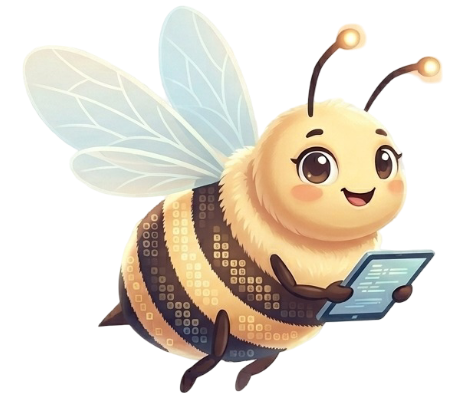
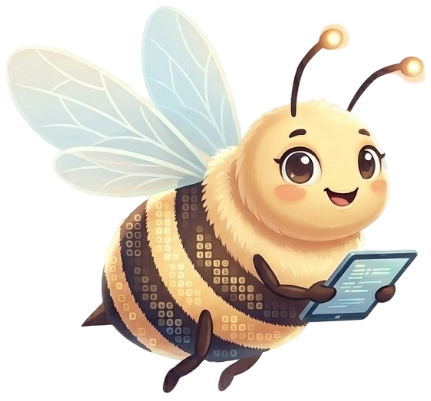
Iconos

diff --git a/frontend/src/js/components/layouts/TopNav/TopNav.js b/frontend/src/js/components/layouts/TopNav/TopNav.js
@@ -60,7 +60,12 @@ export default function TopNav() {
       <div className="topnav-container">
         <div className="topnav-brand">
           <Link to="/" className="brand-link">
-            <img src="/images/logoSF.png" alt="Logo de IVI" className="brand-logo" />
+            <img 
+              src="/images/logoSF.png" 
+              alt="Logo de IVI" 
+              className="brand-logo" 
+              style={{ width: fontSize * 2.5 + 'px', height: fontSize * 2.5 + 'px', minWidth: fontSize * 2.5 + 'px', minHeight: fontSize * 2.5 + 'px', objectFit: 'contain' }}
+            />
             <div className="brand-text">
               <h1>IVI</h1>
               <p>Plataforma de Apoyo y Tamizaje Dislexico</p>
@@ -83,16 +88,17 @@ export default function TopNav() {
           </Link>
           <div className="nav-dropdown" ref={dropdownRef}>
             <button
-              className={`nav-link dropdown-btn ${showLectores ? 'active' : ''}`}
+              className={`nav-link accessibility-btn dropdown-btn ${showLectores ? 'active' : ''}`}
               onClick={() => setShowLectores(prev => !prev)}
               aria-haspopup="true"
               aria-expanded={showLectores}
+              style={{ display: 'flex', alignItems: 'center', gap: '12px', fontWeight: 700, fontSize: '1.1rem', padding: '0.6rem 1.2rem', minWidth: '48px', height: '48px', backgroundColor: 'var(--border)' }}
             >
               <img 
-                src="/images/IviSF.png" 
+                src="/images/IviLector.png" 
                 alt="IVI te ayuda" 
-                className="topnav-ivi-image" 
                 title="IVI te ayuda"
+                style={{ width: fontSize * 1.7 + 'px', height: fontSize * 1.7 + 'px', minWidth: fontSize * 1.7 + 'px', minHeight: fontSize * 1.7 + 'px', objectFit: 'contain', display: 'inline-block' }}
               />
               <span>Ivi te ayuda:</span>
             </button>
@@ -147,12 +153,15 @@ export default function TopNav() {
             onClick={() => setShowAccessibility(!showAccessibility)}
             aria-label="Abrir panel de accesibilidad"
             title="Accesibilidad"
+            style={{ display: 'flex', alignItems: 'center', gap: '8px' }}
           >
             <img 
               src="/images/IviACC.png" 
               alt="Accesibilidad" 
               className="accessibility-icon"
+              style={{ width: fontSize * 1.5 + 'px', height: fontSize * 1.5 + 'px' }}
             />
+            <span style={{ fontWeight: 500, fontSize: '1.1rem' }}>Accesibilidad</span>
           </button>
         </div>
 
